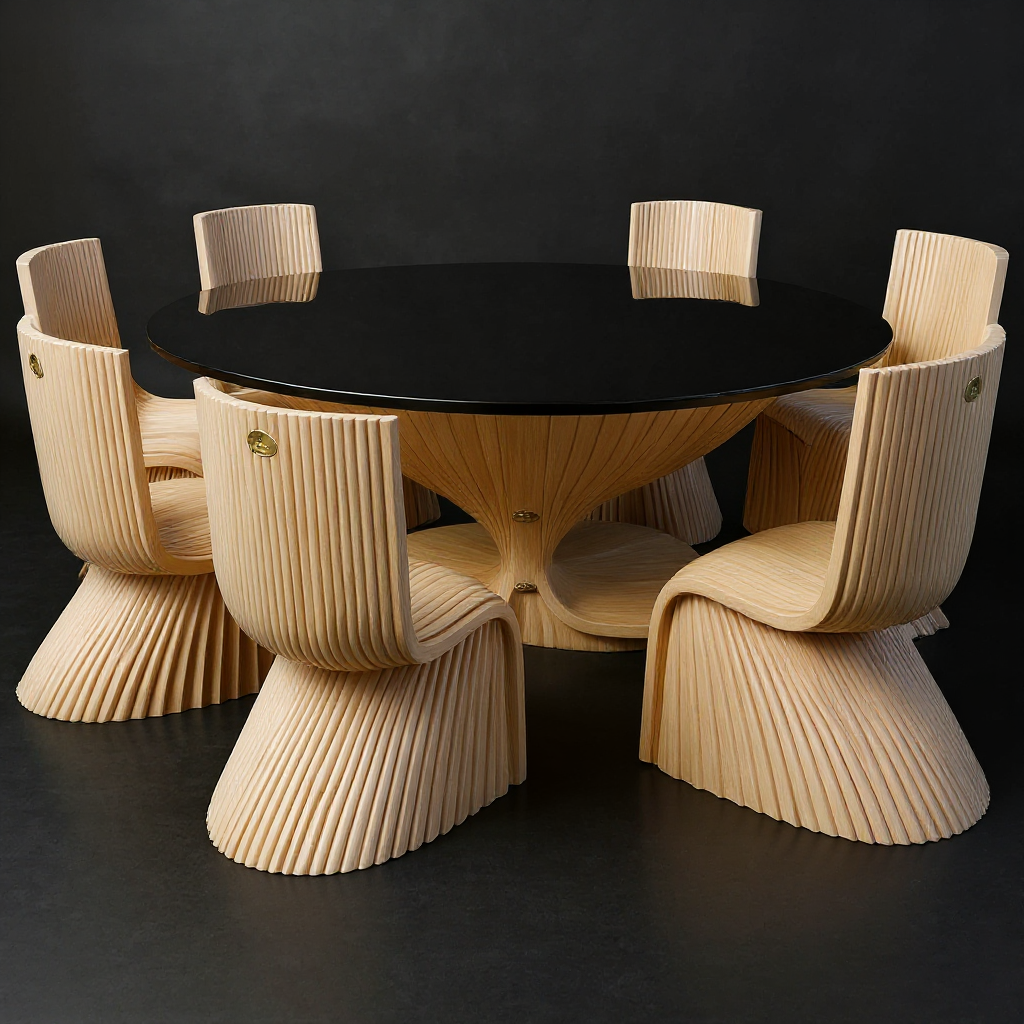
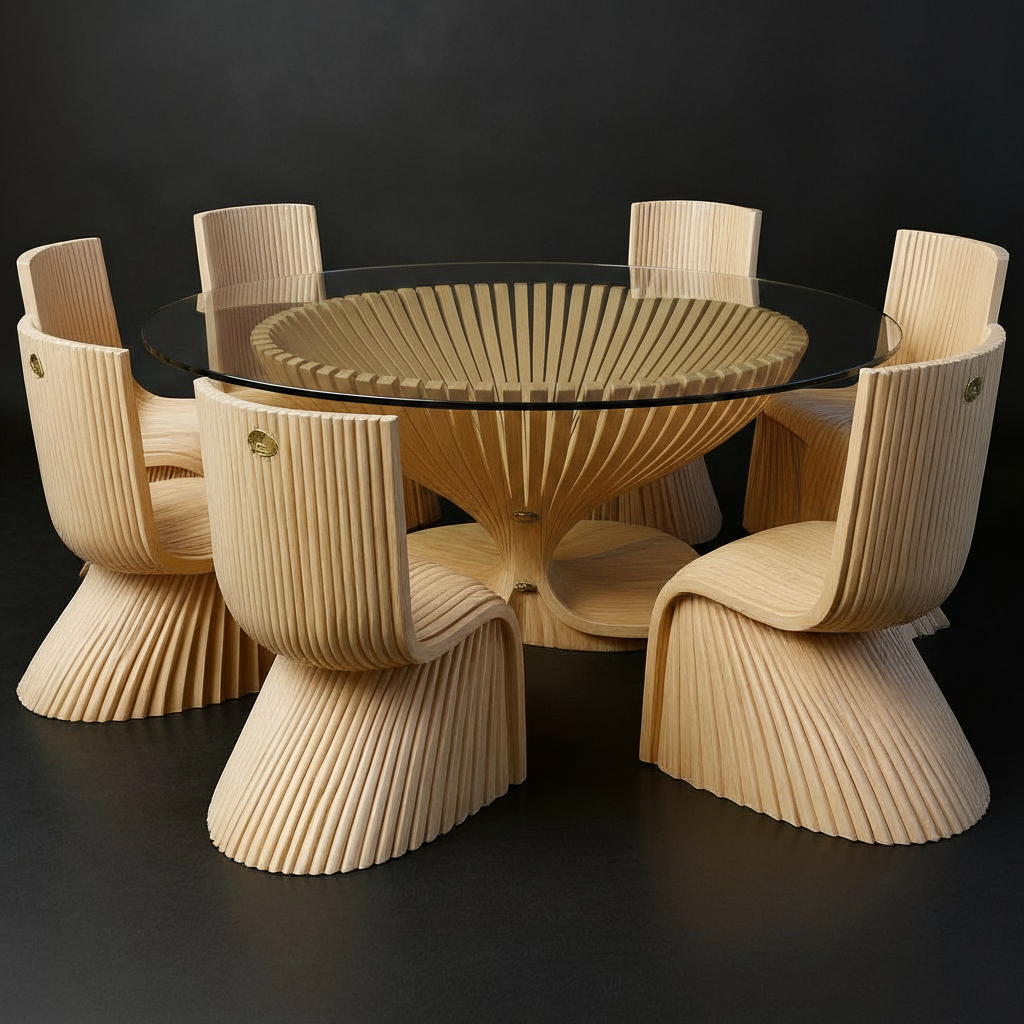
Fix glass-top and color-variant rendering bugs, add interior galleries, reset blog schedule
- Fix opaque/black glass tabletops on ZAHIR, VILAR, ZAHA Office color
  variants — glass is now genuinely transparent with the wood base
  visible through it
- Fix collapsed/near-duplicate light wood tones (light-oak, natural-wood,
  natural-bleached, whitewash) on RAFAN and wood-panel color variants
- Fix reddish console warm-cappuccino variant
- Add "In the Interior" lifestyle galleries across all product lines
- Add footer cross-link to neweraexclusive.ae (was pointing at a
  non-existent domain)
- Compress oversized category hero images (table1, sahara: ~4.6MB/3.9MB
  PNG -> ~230KB/480KB JPEG) — unoptimized in static export, was hurting
  LCP on the highest-traffic /catalog page
- Reset journal publish schedule to weekly Mondays starting 2026-08-10
- Untrack tsconfig.tsbuildinfo, ignore scratch generated/ output

diff --git a/lib/categories.ts b/lib/categories.ts
@@ -32,24 +32,6 @@ export type Product = {
   roomPhotos?: string[]
 }
 
-// All 9 wood finishes — same palette across every product.
-// `cover` is shown until real variant photos are generated and paths updated.
-function woodFinishes(cover: string): ColorVariant[] {
-  return [
-    { id: 'deep-espresso',    name: 'Deep Espresso',    hex: '#1C1008', src: cover },
-    { id: 'dark-walnut',      name: 'Dark Walnut',      hex: '#3B1F0E', src: cover },
-    { id: 'warm-cappuccino',  name: 'Warm Cappuccino',  hex: '#7A5540', src: cover },
-    { id: 'classic-brown',    name: 'Classic Brown',    hex: '#5C3520', src: cover },
-    { id: 'golden-caramel',   name: 'Golden Caramel',   hex: '#A07830', src: cover },
-    { id: 'light-oak',        name: 'Light Oak',        hex: '#C09A60', src: cover },
-    { id: 'natural-wood',     name: 'Natural Wood',     hex: '#CCAA7A', src: cover },
-    { id: 'natural-bleached', name: 'Natural Bleached', hex: '#DDC9A8', src: cover },
-    { id: 'whitewash',        name: 'Whitewash',        hex: '#EEE2CE', src: cover },
-  ]
-}
-
-const ROOM_PLACEHOLDERS = ['__placeholder__', '__placeholder__', '__placeholder__', '__placeholder__']
-
 export type Category = {
   slug: string
   order: string
@@ -65,7 +47,7 @@ export const CATEGORIES: Category[] = [
   {
     slug: 'tables',
     order: '01',
-    image: '/catalog/tables/table1.png',
+    image: '/catalog/tables/table1.jpg',
     hasPhotos: true,
     hasProcess: true,
     specs: [],
@@ -125,7 +107,7 @@ export const CATEGORIES: Category[] = [
   {
     slug: 'chairs',
     order: '02',
-    image: '/catalog/chairs/sahara.png',
+    image: '/catalog/chairs/sahara-hero.jpg',
     hasPhotos: true,
     hasProcess: false,
     specs: [],
@@ -195,7 +177,13 @@ export const PRODUCTS: Product[] = [
       { id: 'natural-bleached', name: 'Natural Bleached', hex: '#DDC9A8', src: '/catalog/tables/dining/zaha-natural-bleached.png'},
       { id: 'whitewash',        name: 'Whitewash',        hex: '#EEE2CE', src: '/catalog/tables/dining/zaha-whitewash.png'       },
     ],
-    roomPhotos: ROOM_PLACEHOLDERS,
+    roomPhotos: [
+      '/catalog/tables/dining/room/zaha-1.jpg',
+      '/catalog/tables/dining/room/zaha-2.jpg',
+      '/catalog/tables/dining/room/zaha-3.jpg',
+      '/catalog/tables/dining/room/zaha-4.jpg',
+      '/catalog/tables/dining/room/zaha-5.jpg',
+    ],
   },
   {
     slug: 'zahir',
@@ -216,7 +204,13 @@ export const PRODUCTS: Product[] = [
       { id: 'natural-bleached', name: 'Natural Bleached', hex: '#DDC9A8', src: '/catalog/tables/dining/zahir-natural-bleached.png'},
       { id: 'whitewash',        name: 'Whitewash',        hex: '#EEE2CE', src: '/catalog/tables/dining/zahir-whitewash.png'       },
     ],
-    roomPhotos: ROOM_PLACEHOLDERS,
+    roomPhotos: [
+      '/catalog/tables/dining/room/zahir-1.jpg',
+      '/catalog/tables/dining/room/zahir-2.jpg',
+      '/catalog/tables/dining/room/zahir-3.jpg',
+      '/catalog/tables/dining/room/zahir-4.jpg',
+      '/catalog/tables/dining/room/zahir-5.jpg',
+    ],
   },
   {
     slug: 'vilar',
@@ -237,7 +231,13 @@ export const PRODUCTS: Product[] = [
       { id: 'natural-bleached', name: 'Natural Bleached', hex: '#DDC9A8', src: '/catalog/tables/dining/vilar-natural-bleached.png'},
       { id: 'whitewash',        name: 'Whitewash',        hex: '#EEE2CE', src: '/catalog/tables/dining/vilar-whitewash.png'       },
     ],
-    roomPhotos: ROOM_PLACEHOLDERS,
+    roomPhotos: [
+      '/catalog/tables/dining/room/vilar-1.jpg',
+      '/catalog/tables/dining/room/vilar-2.jpg',
+      '/catalog/tables/dining/room/vilar-3.jpg',
+      '/catalog/tables/dining/room/vilar-4.jpg',
+      '/catalog/tables/dining/room/vilar-5.jpg',
+    ],
   },
 
   // ── Tables — Coffee Tables ────────────────────────────────────────────────
@@ -260,7 +260,14 @@ export const PRODUCTS: Product[] = [
       { id: 'natural-bleached', name: 'Natural Bleached', hex: '#DDC9A8', src: '/catalog/tables/coffee/rafan-natural-bleached.png'},
       { id: 'whitewash',        name: 'Whitewash',        hex: '#EEE2CE', src: '/catalog/tables/coffee/rafan-whitewash.png'       },
     ],
-    roomPhotos: ROOM_PLACEHOLDERS,
+    roomPhotos: [
+      '/catalog/tables/coffee/room/rafan-1.jpg',
+      '/catalog/tables/coffee/room/rafan-2.jpg',
+      '/catalog/tables/coffee/room/rafan-3.jpg',
+      '/catalog/tables/coffee/room/rafan-4.jpg',
+      '/catalog/tables/coffee/room/rafan-5.jpg',
+      '/catalog/tables/coffee/room/rafan-6.jpg',
+    ],
   },
   {
     slug: 'dune',
@@ -281,7 +288,13 @@ export const PRODUCTS: Product[] = [
       { id: 'natural-bleached', name: 'Natural Bleached', hex: '#DDC9A8', src: '/catalog/tables/coffee/dune-natural-bleached.png'},
       { id: 'whitewash',        name: 'Whitewash',        hex: '#EEE2CE', src: '/catalog/tables/coffee/dune-whitewash.png'       },
     ],
-    roomPhotos: ROOM_PLACEHOLDERS,
+    roomPhotos: [
+      '/catalog/tables/coffee/room/dune-1.jpg',
+      '/catalog/tables/coffee/room/dune-2.jpg',
+      '/catalog/tables/coffee/room/dune-3.jpg',
+      '/catalog/tables/coffee/room/dune-4.jpg',
+      '/catalog/tables/coffee/room/dune-5.jpg',
+    ],
   },
   {
     slug: 'rayan',
@@ -302,7 +315,14 @@ export const PRODUCTS: Product[] = [
       { id: 'natural-bleached', name: 'Natural Bleached', hex: '#DDC9A8', src: '/catalog/tables/coffee/rayan-natural-bleached.png'},
       { id: 'whitewash',        name: 'Whitewash',        hex: '#EEE2CE', src: '/catalog/tables/coffee/rayan-whitewash.png'       },
     ],
-    roomPhotos: ROOM_PLACEHOLDERS,
+    roomPhotos: [
+      '/catalog/tables/coffee/room/rayan-1.jpg',
+      '/catalog/tables/coffee/room/rayan-2.jpg',
+      '/catalog/tables/coffee/room/rayan-3.jpg',
+      '/catalog/tables/coffee/room/rayan-4.jpg',
+      '/catalog/tables/coffee/room/rayan-5.jpg',
+      '/catalog/tables/coffee/room/rayan-6.jpg',
+    ],
   },
 
   // ── Tables — Office ───────────────────────────────────────────────────────
@@ -325,7 +345,14 @@ export const PRODUCTS: Product[] = [
       { id: 'natural-bleached', name: 'Natural Bleached', hex: '#DDC9A8', src: '/catalog/tables/office/zaha-natural-bleached.png'},
       { id: 'whitewash',        name: 'Whitewash',        hex: '#EEE2CE', src: '/catalog/tables/office/zaha-whitewash.png'       },
     ],
-    roomPhotos: ROOM_PLACEHOLDERS,
+    roomPhotos: [
+      '/catalog/tables/office/room/zaha-1.jpg',
+      '/catalog/tables/office/room/zaha-2.jpg',
+      '/catalog/tables/office/room/zaha-3.jpg',
+      '/catalog/tables/office/room/zaha-4.jpg',
+      '/catalog/tables/office/room/zaha-5.jpg',
+      '/catalog/tables/office/room/zaha-6.jpg',
+    ],
   },
   {
     slug: 'vilar-office',
@@ -346,7 +373,14 @@ export const PRODUCTS: Product[] = [
       { id: 'natural-bleached', name: 'Natural Bleached', hex: '#DDC9A8', src: '/catalog/tables/office/vilar-natural-bleached.png'},
       { id: 'whitewash',        name: 'Whitewash',        hex: '#EEE2CE', src: '/catalog/tables/office/vilar-whitewash.png'       },
     ],
-    roomPhotos: ROOM_PLACEHOLDERS,
+    roomPhotos: [
+      '/catalog/tables/office/room/vilar-1.jpg',
+      '/catalog/tables/office/room/vilar-2.jpg',
+      '/catalog/tables/office/room/vilar-3.jpg',
+      '/catalog/tables/office/room/vilar-4.jpg',
+      '/catalog/tables/office/room/vilar-5.jpg',
+      '/catalog/tables/office/room/vilar-6.jpg',
+    ],
   },
 
   // ── Tables — Bar Collection ───────────────────────────────────────────────
@@ -369,7 +403,14 @@ export const PRODUCTS: Product[] = [
       { id: 'natural-bleached', name: 'Natural Bleached', hex: '#DDC9A8', src: '/catalog/tables/bar/rafan-natural-bleached.png'},
       { id: 'whitewash',        name: 'Whitewash',        hex: '#EEE2CE', src: '/catalog/tables/bar/rafan-whitewash.png'       },
     ],
-    roomPhotos: ROOM_PLACEHOLDERS,
+    roomPhotos: [
+      '/catalog/tables/bar/room/rafan-1.jpg',
+      '/catalog/tables/bar/room/rafan-2.jpg',
+      '/catalog/tables/bar/room/rafan-3.jpg',
+      '/catalog/tables/bar/room/rafan-4.jpg',
+      '/catalog/tables/bar/room/rafan-5.jpg',
+      '/catalog/tables/bar/room/rafan-6.jpg',
+    ],
   },
 
   // ── Chairs — SAHARA ──────────────────────────────────────────────────────
@@ -392,7 +433,14 @@ export const PRODUCTS: Product[] = [
       { id: 'natural-bleached', name: 'Natural Bleached', hex: '#DDC9A8', src: '/catalog/chairs/sahara-natural-bleached.png'},
       { id: 'whitewash',        name: 'Whitewash',        hex: '#EEE2CE', src: '/catalog/chairs/sahara-whitewash.png'       },
     ],
-    roomPhotos: ['__placeholder__', '__placeholder__', '__placeholder__', '__placeholder__', '__placeholder__'],
+    roomPhotos: [
+      '/catalog/chairs/room/sahara-1.jpg',
+      '/catalog/chairs/room/sahara-2.jpg',
+      '/catalog/chairs/room/sahara-3.jpg',
+      '/catalog/chairs/room/sahara-4.jpg',
+      '/catalog/chairs/room/sahara-5.jpg',
+      '/catalog/chairs/room/sahara-6.jpg',
+    ],
   },
 
   // ── Consoles ─────────────────────────────────────────────────────────────
@@ -414,7 +462,14 @@ export const PRODUCTS: Product[] = [
       { id: 'natural-bleached', name: 'Natural Bleached', hex: '#DDC9A8', src: '/catalog/consoles/console-natural-bleached.png'},
       { id: 'whitewash',        name: 'Whitewash',        hex: '#EEE2CE', src: '/catalog/consoles/console-whitewash.png'       },
     ],
-    roomPhotos: ROOM_PLACEHOLDERS,
+    roomPhotos: [
+      '/catalog/nightstands/room/console-1.jpg',
+      '/catalog/nightstands/room/console-2.jpg',
+      '/catalog/nightstands/room/console-3.jpg',
+      '/catalog/nightstands/room/console-4.jpg',
+      '/catalog/nightstands/room/console-5.jpg',
+      '/catalog/nightstands/room/console-6.jpg',
+    ],
   },
 
   // ── Wood Panels ──────────────────────────────────────────────────────────
@@ -430,8 +485,25 @@ export const PRODUCTS: Product[] = [
       { src: '/catalog/wood-panels/wp-03.jpg' },
       { src: '/catalog/wood-panels/wp-04.jpg' },
     ],
-    colorVariants: woodFinishes('/catalog/wood-panels/wp-01.jpg'),
-    roomPhotos: ROOM_PLACEHOLDERS,
+    colorVariants: [
+      { id: 'deep-espresso',    name: 'Deep Espresso',    hex: '#1C1008', src: '/catalog/wood-panels/wp-deep-espresso.jpg'    },
+      { id: 'dark-walnut',      name: 'Dark Walnut',      hex: '#3B1F0E', src: '/catalog/wood-panels/wp-dark-walnut.jpg'      },
+      { id: 'warm-cappuccino',  name: 'Warm Cappuccino',  hex: '#7A5540', src: '/catalog/wood-panels/wp-warm-cappuccino.jpg'  },
+      { id: 'classic-brown',    name: 'Classic Brown',    hex: '#5C3520', src: '/catalog/wood-panels/wp-classic-brown.jpg'    },
+      { id: 'golden-caramel',   name: 'Golden Caramel',   hex: '#A07830', src: '/catalog/wood-panels/wp-02.jpg'               },
+      { id: 'light-oak',        name: 'Light Oak',        hex: '#C09A60', src: '/catalog/wood-panels/wp-light-oak.jpg'        },
+      { id: 'natural-wood',     name: 'Natural Wood',     hex: '#CCAA7A', src: '/catalog/wood-panels/wp-natural-wood.jpg'     },
+      { id: 'natural-bleached', name: 'Natural Bleached', hex: '#DDC9A8', src: '/catalog/wood-panels/wp-natural-bleached.jpg' },
+      { id: 'whitewash',        name: 'Whitewash',        hex: '#EEE2CE', src: '/catalog/wood-panels/wp-whitewash.jpg'        },
+    ],
+    roomPhotos: [
+      '/catalog/wood-panels/room/panel-1.jpg',
+      '/catalog/wood-panels/room/panel-2.jpg',
+      '/catalog/wood-panels/room/panel-3.jpg',
+      '/catalog/wood-panels/room/panel-4.jpg',
+      '/catalog/wood-panels/room/panel-5.jpg',
+      '/catalog/wood-panels/room/panel-6.jpg',
+    ],
   },
 ]
 

diff --git a/lib/articles.ts b/lib/articles.ts
@@ -22,7 +22,7 @@ export type Article = {
 export const ARTICLES: Article[] = [
   {
     slug: 'custom-furniture-restaurants-hotels-dubai',
-    publishedAt: '2026-07-04',
+    publishedAt: '2026-08-10',
     readingTime: 6,
     category: 'Design',
     en: {
@@ -103,7 +103,7 @@ export const ARTICLES: Article[] = [
   },
   {
     slug: 'how-to-commission-custom-furniture-dubai',
-    publishedAt: '2026-07-11',
+    publishedAt: '2026-08-17',
     readingTime: 7,
     category: 'Guide',
     en: {
@@ -247,7 +247,7 @@ export const ARTICLES: Article[] = [
   },
   {
     slug: 'furniture-manufacturer-for-interior-designers',
-    publishedAt: '2026-07-18',
+    publishedAt: '2026-08-24',
     readingTime: 6,
     category: 'Process',
     en: {
@@ -328,7 +328,7 @@ export const ARTICLES: Article[] = [
   },
   {
     slug: 'glass-top-dining-table-pros-cons',
-    publishedAt: '2026-07-25',
+    publishedAt: '2026-08-31',
     readingTime: 5,
     category: 'Guide',
     en: {
@@ -418,7 +418,7 @@ export const ARTICLES: Article[] = [
   },
   {
     slug: 'home-bar-design-villa-dubai',
-    publishedAt: '2026-08-01',
+    publishedAt: '2026-09-07',
     readingTime: 5,
     category: 'Design',
     en: {
@@ -484,7 +484,7 @@ export const ARTICLES: Article[] = [
   },
   {
     slug: 'plywood-vs-solid-wood-furniture',
-    publishedAt: '2026-08-08',
+    publishedAt: '2026-09-14',
     readingTime: 6,
     category: 'Materials',
     en: {
@@ -556,7 +556,7 @@ export const ARTICLES: Article[] = [
   },
   {
     slug: 'home-office-furniture-dubai-villa',
-    publishedAt: '2026-08-15',
+    publishedAt: '2026-09-21',
     readingTime: 6,
     category: 'Design',
     en: {
@@ -652,7 +652,7 @@ export const ARTICLES: Article[] = [
   },
   {
     slug: 'coffee-table-guide-living-room',
-    publishedAt: '2026-08-22',
+    publishedAt: '2026-09-28',
     readingTime: 6,
     category: 'Guide',
     en: {
@@ -727,7 +727,7 @@ export const ARTICLES: Article[] = [
   },
   {
     slug: 'dark-vs-light-wood-furniture-interior',
-    publishedAt: '2026-08-29',
+    publishedAt: '2026-10-05',
     readingTime: 5,
     category: 'Materials',
     en: {
@@ -802,7 +802,7 @@ export const ARTICLES: Article[] = [
   },
   {
     slug: 'statement-furniture-piece-interior',
-    publishedAt: '2026-09-05',
+    publishedAt: '2026-10-12',
     readingTime: 5,
     category: 'Design',
     en: {
@@ -892,7 +892,7 @@ export const ARTICLES: Article[] = [
   },
   {
     slug: 'wood-furniture-care-uae-climate',
-    publishedAt: '2026-09-12',
+    publishedAt: '2026-10-19',
     readingTime: 5,
     category: 'Guide',
     en: {

diff --git a/components/Footer.tsx b/components/Footer.tsx
@@ -20,7 +20,7 @@ export default function Footer() {
           {t('journal')}
         </Link>
         <a
-          href="https://newera.ae"
+          href="https://neweraexclusive.ae"
           target="_blank"
           rel="noopener"
           className="font-body text-[10px] uppercase tracking-[0.25em] text-cream/25 hover:text-cream/50 transition-colors duration-200"
